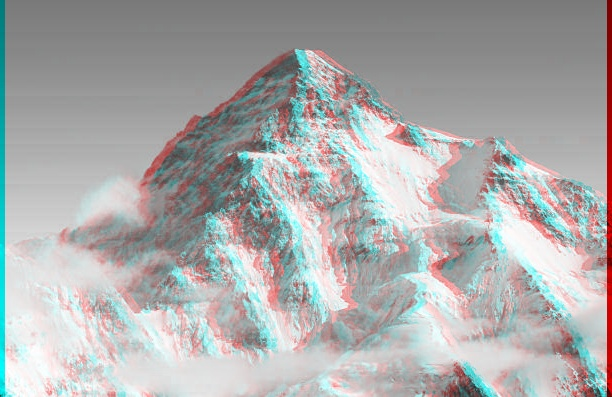
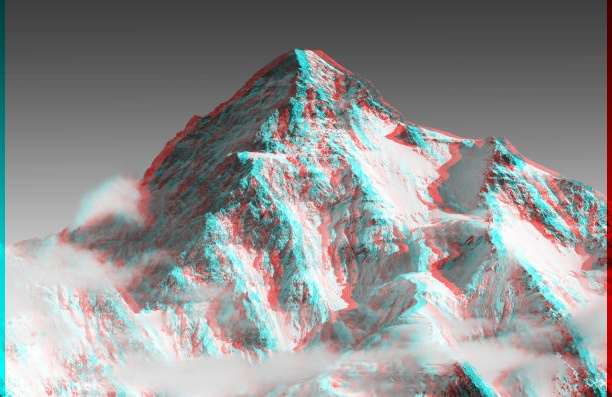
working asm dll

diff --git a/main.py b/main.py
@@ -13,7 +13,7 @@ def anglifyASM(left, right):
     height = left.shape[0]
     width = left.shape[1]
     returnedImage = np.zeros([height, width, 3], dtype='uint8')
-    asmDll = ct.WinDLL("C:\\JA-Anglyph-AsmPython\\DllAsm.dll")
+    asmDll = ct.WinDLL("C:\\Users\\jakub\\OneDrive\\Pulpit\\ASM PROJEKT\\JA-Anglyph-AsmPython\\DllAsm.dll")
 
     for i in range(0, width * height, 4):
         # Get 4 pixels from left image
@@ -21,68 +21,82 @@ def anglifyASM(left, right):
         pixL2 = getPixelOfFlattenedArray(left, i + 1)
         pixL3 = getPixelOfFlattenedArray(left, i + 2)
         pixL4 = getPixelOfFlattenedArray(left, i + 3)
-
+        pixL = (ct.c_int * len(pixL))(*pixL)
+        pixL2 = (ct.c_int * len(pixL2))(*pixL2)
+        pixL3 = (ct.c_int * len(pixL3))(*pixL3)
+        pixL4 = (ct.c_int * len(pixL4))(*pixL4)
         # Get 4 pixels from right image
         pixR = getPixelOfFlattenedArray(right, i)
         pixR2 = getPixelOfFlattenedArray(right, i + 1)
         pixR3 = getPixelOfFlattenedArray(right, i + 2)
         pixR4 = getPixelOfFlattenedArray(right, i + 3)
+        pixR = (ct.c_int * len(pixL))(*pixR)
+        pixR2 = (ct.c_int * len(pixL2))(*pixR2)
+        pixR3 = (ct.c_int * len(pixL3))(*pixR3)
+        pixR4 = (ct.c_int * len(pixL4))(*pixR4)
+        passedList = [pixL, pixL2, pixL3, pixL4, pixR, pixR2, pixR3, pixR4]
+        # # Create 3 arrays off left BGR values
+        # pyLarrB = [pixL[0], pixL2[0], pixL3[0], pixL4[0]]
+        # pyLarrG = [pixL[1], pixL2[1], pixL3[1], pixL4[1]]
+        # pyLarrR = [pixL[2], pixL2[2], pixL3[2], pixL4[2]]
+        #
+        # # Create 3 arrays off right BGR values
+        # pyRarrB = [pixR[0], pixR2[0], pixR3[0], pixR4[0]]
+        # pyRarrG = [pixR[1], pixR2[1], pixR3[1], pixR4[1]]
+        # pyRarrR = [pixR[2], pixR2[2], pixR3[2], pixR4[2]]
+        #
+        # #?
+        # arrLB = (ct.c_int * len(pyLarrB))(*pyLarrB)
+        # arrLG = (ct.c_int * len(pyLarrG))(*pyLarrG)
+        # arrLR = (ct.c_int * len(pyLarrR))(*pyLarrR)
+        #
+        # arrRB = (ct.c_int * len(pyRarrB))(*pyRarrB)
+        # arrRG = (ct.c_int * len(pyRarrG))(*pyRarrG)
+        # arrRR = (ct.c_int * len(pyRarrR))(*pyRarrR)
 
-        # Create 3 arrays off left BGR values
-        pyLarrB = [pixL[0], pixL2[0], pixL3[0], pixL4[0]]
-        pyLarrG = [pixL[1], pixL2[1], pixL3[1], pixL4[1]]
-        pyLarrR = [pixL[2], pixL2[2], pixL3[2], pixL4[2]]
+        # #Creating struct of arrays
+        # arrLeftStruct = tabASM(arrLB, arrLG, arrLR)
+        # arrRightStruct = tabASM(arrRB, arrRG, arrRR)
+        #
+        # #Passing struct to arrays
+        # asmDll.Calculate(arrLeftStruct)
+        # asmDll.Calculate(arrRightStruct)
+        #passedCArray = (ct.POINTER(ct.c_int) * len(passedList))(*passedList)
+        passedCArray = (ct.c_uint * 3 * 8)(*(tuple(i) for i in passedList))
+        #print(passedCArray)
+        #print(passedCArray[2][:])
 
-        # Create 3 arrays off right BGR values
-        pyRarrB = [pixR[0], pixR2[0], pixR3[0], pixR4[0]]
-        pyRarrG = [pixR[1], pixR2[1], pixR3[1], pixR4[1]]
-        pyRarrR = [pixR[2], pixR2[2], pixR3[2], pixR4[2]]
+        asmDll.Calculate(passedCArray)
+        #print(passedCArray[2][:])
 
-        #?
-        arrLB = (ct.c_int * len(pyLarrB))(*pyLarrB)
-        arrLG = (ct.c_int * len(pyLarrG))(*pyLarrG)
-        arrLR = (ct.c_int * len(pyLarrR))(*pyLarrR)
-
-        arrRB = (ct.c_int * len(pyRarrB))(*pyRarrB)
-        arrRG = (ct.c_int * len(pyRarrG))(*pyRarrG)
-        arrRR = (ct.c_int * len(pyRarrR))(*pyRarrR)
-
-        #Creating struct of arrays
-        arrLeftStruct = tabASM(arrLB, arrLG, arrLR)
-        arrRightStruct = tabASM(arrRB, arrRG, arrRR)
-
-        #Passing struct to arrays
-        asmDll.Calculate(arrLeftStruct)
-        asmDll.Calculate(arrRightStruct)
-
-        #TODO: fix the bug with conversion and fix the every 4-th pixel wrong value (?)
-        parsedRArray = ct.cast(arrLB, ct.POINTER(ct.c_int * 4))
-        parsedGBArray = ct.cast(arrRB, ct.POINTER(ct.c_int * 4))
-        pythonBGList = parsedGBArray.contents[:]
-        pythonRList = parsedRArray.contents[:]
-
+        #print([passedCArray[0][0], passedCArray[0][1], passedCArray[0][2]])
+        # #TODO: fix the bug with conversion and fix the every 4-th pixel wrong value (?)
+        # parsedRArray = ct.cast(arrLB, ct.POINTER(ct.c_int * 4))
+        # parsedGBArray = ct.cast(arrRB, ct.POINTER(ct.c_int * 4))
+        # pythonBGList = parsedGBArray.contents[:]
+        # pythonRList = parsedRArray.contents[:]
+        #
         rpix = getPixelOfFlattenedArray(returnedImage, i)
         rpix2 = getPixelOfFlattenedArray(returnedImage, i + 1)
         rpix3 = getPixelOfFlattenedArray(returnedImage, i + 2)
         rpix4 = getPixelOfFlattenedArray(returnedImage, i + 3)
 
-
-        rpix[0] = int(pythonBGList[0])
-        rpix[1] = int(pythonBGList[0])
-        rpix[2] = int(pythonRList[0])
-
-        rpix2[0] = int(pythonBGList[1])
-        rpix2[1] = int(pythonBGList[1])
-        rpix2[2] = int(pythonRList[1])
-
-        rpix3[0] = int(pythonBGList[2])
-        rpix3[1] = int(pythonBGList[2])
-        rpix3[2] = int(pythonRList[2])
+        rpix[0] = int(passedCArray[0][0])
+        rpix[1] = int(passedCArray[0][1])
+        rpix[2] = int(passedCArray[0][2])
+        #print (rpix[2])
         #
-        rpix4[0] = int(pythonBGList[3])
-        rpix4[1] = int(pythonBGList[3])
-        rpix4[2] = int(pythonRList[3])
+        rpix2[0] = int(passedCArray[1][0])
+        rpix2[1] = int(passedCArray[1][1])
+        rpix2[2] = int(passedCArray[1][2])
 
+        rpix3[0] = int(passedCArray[2][0])
+        rpix3[1] = int(passedCArray[2][1])
+        rpix3[2] = int(passedCArray[2][2])
+        #
+        rpix4[0] = int(passedCArray[3][0])
+        rpix4[1] = int(passedCArray[3][1])
+        rpix4[2] = int(passedCArray[3][2])
     return returnedImage
 
 
